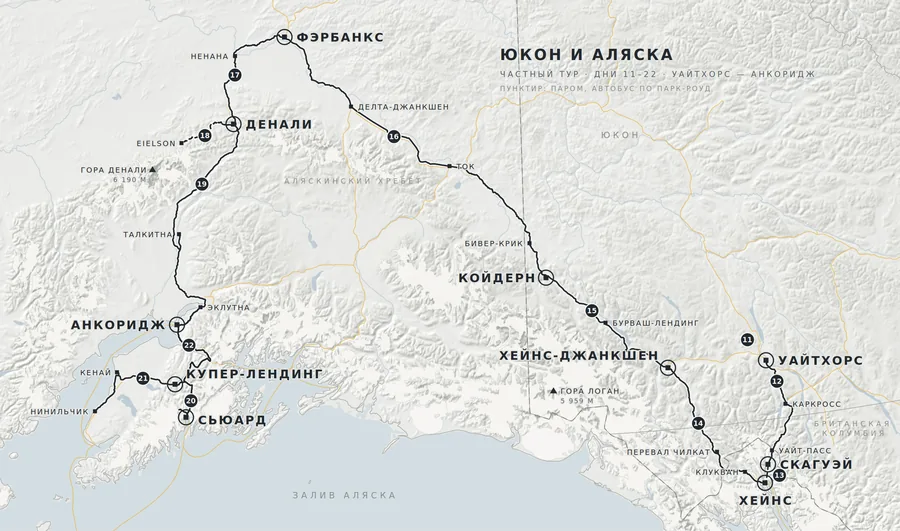
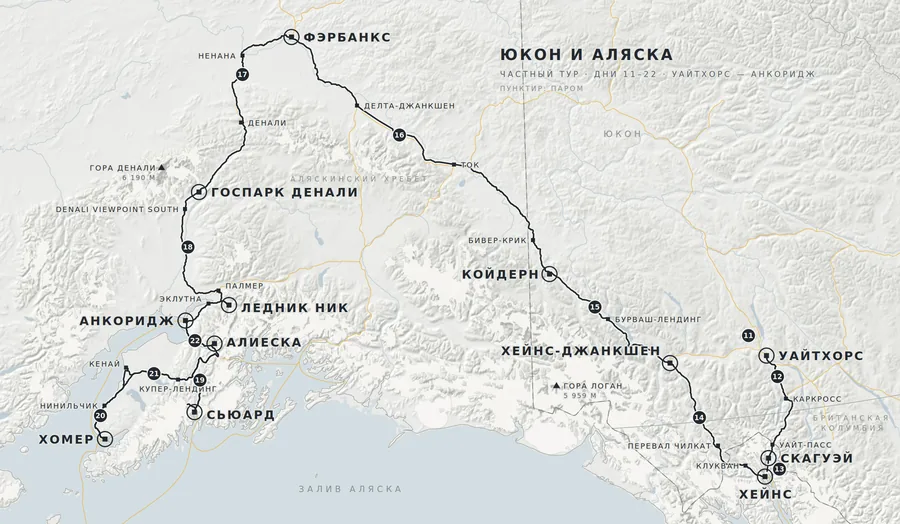
alberta-rockies-alaska-indigenous: новые дни 17–22 (госпарк Денали, Палмер, ледник Ник, Хомер, Алиеска), карта

diff --git a/expeditions/alberta-rockies-alaska-indigenous/index.html b/expeditions/alberta-rockies-alaska-indigenous/index.html
@@ -73,6 +73,10 @@ h2+.meta{margin:0 0 1.3rem}
   .trio picture{aspect-ratio:3/2}
 }
 
+/* варианты на выбор */
+.col ul.opts{margin:0 0 1rem;padding-left:1.1rem}
+.col ul.opts li{margin:.2rem 0}
+
 /* дата у номера дня */
 h2 .dt{font-family:var(--sans);font-size:.8125rem;letter-spacing:.04em;color:var(--dim);margin-left:.7rem;white-space:nowrap}
 
@@ -391,7 +395,7 @@ footer .meta{margin:0}
     <a href="/expeditions/alberta-rockies-alaska-indigenous/img/map-ak-full.jpg" target="_blank" rel="noopener">
       <picture>
         <source type="image/webp" srcset="/expeditions/alberta-rockies-alaska-indigenous/img/map-ak-800.webp 900w, /expeditions/alberta-rockies-alaska-indigenous/img/map-ak.webp 1600w" sizes="(min-width:1000px) 60rem, 100vw">
-        <img src="/expeditions/alberta-rockies-alaska-indigenous/img/map-ak.jpg" srcset="/expeditions/alberta-rockies-alaska-indigenous/img/map-ak-800.jpg 900w, /expeditions/alberta-rockies-alaska-indigenous/img/map-ak.jpg 1600w" sizes="(min-width:1000px) 60rem, 100vw" alt="Карта маршрута: Уайтхорс, Скагуэй, Хейнс, Клуэйн, Фэрбанкс, Денали, Анкоридж, Сьюард, полуостров Кенай" width="1600" height="943" loading="lazy" decoding="async">
+        <img src="/expeditions/alberta-rockies-alaska-indigenous/img/map-ak.jpg" srcset="/expeditions/alberta-rockies-alaska-indigenous/img/map-ak-800.jpg 900w, /expeditions/alberta-rockies-alaska-indigenous/img/map-ak.jpg 1600w" sizes="(min-width:1000px) 60rem, 100vw" alt="Карта маршрута: Уайтхорс, Скагуэй, Хейнс, Клуэйн, Фэрбанкс, Денали, Палмер, ледник Ник, Анкоридж, Сьюард, Хомер, Кенай, Алиеска" width="1600" height="931" loading="lazy" decoding="async">
       </picture>
     </a>
   </div></div>
@@ -525,105 +529,129 @@ footer .meta{margin:0}
   <p class="cap col"><span>Ненана. Церковь St. Mark’s.</span></p>
   <div class="col">
     <h2>День 17<span class="dt">7&nbsp;июня, пн</span></h2>
-    <p class="meta">Фэрбанкс, Ненана, Денали. 195&nbsp;км.</p>
-    <p><a href="https://www.uaf.edu/museum/" target="_blank" rel="noopener">Музей Севера</a> Университета Аляски: галерея искусства коренных народов, степной бизон Blue Babe, пролежавший в мерзлоте 36&nbsp;000&nbsp;лет. Ненана, атабаскская деревня на слиянии Танана и Ненаны: миссионерская церковь St. Mark’s (1905), знаменитая лотерея на вскрытие льда. <a href="https://www.nps.gov/dena/" target="_blank" rel="noopener">Национальный парк Денали</a>, визит&#8209;центр, единственный в системе национальных парков питомник ездовых собак. Вечером первые километры Парк&#8209;роуд до реки Сэвидж.</p>
-    <p class="stay"><b>Ночь.</b> Tonglen Lake Lodge, домики с видом на Аляскинский хребет.</p>
-  </div>
-</section>
-
-<!-- ДЕНЬ 18 -->
-<section class="block">
-  <div class="photo">
-    <picture>
-      <source type="image/webp" srcset="/expeditions/alberta-rockies-alaska-indigenous/img/d18-polychrome-800.webp 800w, /expeditions/alberta-rockies-alaska-indigenous/img/d18-polychrome.webp 1600w" sizes="100vw">
-      <img src="/expeditions/alberta-rockies-alaska-indigenous/img/d18-polychrome.jpg" srcset="/expeditions/alberta-rockies-alaska-indigenous/img/d18-polychrome-800.jpg 800w, /expeditions/alberta-rockies-alaska-indigenous/img/d18-polychrome.jpg 1600w" sizes="100vw" alt="Автобус на серпантине Парк-роуд у перевала Поликром" width="1600" height="1092" loading="lazy" decoding="async">
-    </picture>
-  </div>
-  <p class="cap col"><span>Поликром. Автобус на Парк&#8209;роуд.</span></p>
-  <div class="col">
-    <h2>День 18<span class="dt">8&nbsp;июня, вт</span></h2>
-    <p class="meta">Денали.</p>
-    <p>Целый день в глубине парка. Автобус по Парк&#8209;роуд через перевал Поликром до визит&#8209;центра Eielson, миля 66: сезон 2027 первый за шесть лет, когда дорога за оползнем Pretty Rocks снова открыта. Гризли, лоси, карибу, бараны Далла, волки; при ясной погоде гора Денали, 6&nbsp;190&nbsp;м, во всю ширину долины.</p>
-    <p class="stay"><b>Ночь.</b> Tonglen Lake Lodge.</p>
+    <p class="meta">Фэрбанкс, Ненана, Денали, госпарк Денали. Около 325&nbsp;км.</p>
+    <p>Утром <a href="https://www.uaf.edu/museum/" target="_blank" rel="noopener">Музей Севера</a> Университета Аляски: галерея искусства коренных народов, степной бизон Blue Babe, пролежавший в мерзлоте 36&nbsp;000&nbsp;лет. Ненана, атабаскская деревня на слиянии Танана и Ненаны: миссионерская церковь St. Mark’s (1905), знаменитая лотерея на вскрытие льда. К обеду <a href="https://www.nps.gov/dena/" target="_blank" rel="noopener">национальный парк Денали</a>: визит&#8209;центр и единственный в системе национальных парков питомник ездовых собак. Дальше на юг по трассе Паркс вдоль Аляскинского хребта в госпарк Денали.</p>
+    <p class="stay"><b>Ночь.</b> Historic Chulitna River Lodge, бревенчатые дома на озере Эрмин с видом на Денали.</p>
   </div>
   <div class="photo" style="margin-top:1.6rem">
     <picture>
-      <source type="image/webp" srcset="/expeditions/alberta-rockies-alaska-indigenous/img/d18-eielson-800.webp 800w, /expeditions/alberta-rockies-alaska-indigenous/img/d18-eielson.webp 1600w" sizes="100vw">
-      <img src="/expeditions/alberta-rockies-alaska-indigenous/img/d18-eielson.jpg" srcset="/expeditions/alberta-rockies-alaska-indigenous/img/d18-eielson-800.jpg 800w, /expeditions/alberta-rockies-alaska-indigenous/img/d18-eielson.jpg 1600w" sizes="100vw" alt="Гора Денали в облаках, вид от визит-центра Eielson" width="1600" height="1062" loading="lazy" decoding="async">
+      <source type="image/webp" srcset="/expeditions/alberta-rockies-alaska-indigenous/img/d17-ermine-lake-800.webp 800w, /expeditions/alberta-rockies-alaska-indigenous/img/d17-ermine-lake.webp 1600w" sizes="100vw">
+      <img src="/expeditions/alberta-rockies-alaska-indigenous/img/d17-ermine-lake.jpg" srcset="/expeditions/alberta-rockies-alaska-indigenous/img/d17-ermine-lake-800.jpg 800w, /expeditions/alberta-rockies-alaska-indigenous/img/d17-ermine-lake.jpg 1600w" sizes="100vw" alt="Озеро Эрмин с причалом и лодкой, лес и горы госпарка Денали" width="1600" height="1067" loading="lazy" decoding="async">
     </picture>
   </div>
-  <p class="cap col"><span>Денали с Eielson.</span></p>
+  <p class="cap col"><span>Озеро Эрмин.</span></p>
+</section>
+
+<!-- ДЕНЬ 18 -->
+<section class="block" style="padding-top:0">
+  <div class="photo">
+    <picture>
+      <source type="image/webp" srcset="/expeditions/alberta-rockies-alaska-indigenous/img/d18-denali-south-800.webp 800w, /expeditions/alberta-rockies-alaska-indigenous/img/d18-denali-south.webp 1600w" sizes="100vw">
+      <img src="/expeditions/alberta-rockies-alaska-indigenous/img/d18-denali-south.jpg" srcset="/expeditions/alberta-rockies-alaska-indigenous/img/d18-denali-south-800.jpg 800w, /expeditions/alberta-rockies-alaska-indigenous/img/d18-denali-south.jpg 1600w" sizes="100vw" alt="Аляскинский хребет и Денали с южной смотровой на трассе Паркс" width="1600" height="899" loading="lazy" decoding="async">
+    </picture>
+  </div>
+  <p class="cap col"><span>Денали с южной смотровой.</span></p>
+  <div class="col">
+    <h2>День 18<span class="dt">8&nbsp;июня, вт</span></h2>
+    <p class="meta">Хижина на Чулитне, Denali Viewpoint South, Палмер. Около 230&nbsp;км.</p>
+    <p>Утром <a href="https://dnr.alaska.gov/parks/aspunits/matsu/denaliviewso.htm" target="_blank" rel="noopener">Denali Viewpoint South</a> на 135&#8209;й миле трассы Паркс: один из лучших видов на Денали с дороги, таблички называют все вершины Аляскинского хребта. Долина Матануска, <a href="https://muskoxfarm.org/farmtours" target="_blank" rel="noopener">ферма овцебыков</a> в Палмере: стадо из семидесяти животных, переживших ледниковый период, и кивиут, их подшёрсток, из которого вяжут мастерицы северных деревень.</p>
+    <p class="x"><i>Опция:</i> облёт Денали с посадкой на ледник из Талкитны.</p>
+    <p class="stay"><b>Ночь.</b> Alaska Glacier Lodge в долине реки Ник.</p>
+  </div>
+  <div class="photo" style="margin-top:1.6rem">
+    <picture>
+      <source type="image/webp" srcset="/expeditions/alberta-rockies-alaska-indigenous/img/d18-musk-ox-800.webp 800w, /expeditions/alberta-rockies-alaska-indigenous/img/d18-musk-ox.webp 1600w" sizes="100vw">
+      <img src="/expeditions/alberta-rockies-alaska-indigenous/img/d18-musk-ox.jpg" srcset="/expeditions/alberta-rockies-alaska-indigenous/img/d18-musk-ox-800.jpg 800w, /expeditions/alberta-rockies-alaska-indigenous/img/d18-musk-ox.jpg 1600w" sizes="100vw" alt="Овцебык на ферме в Палмере" width="1600" height="1200" loading="lazy" decoding="async">
+    </picture>
+  </div>
+  <p class="cap col"><span>Палмер. Овцебыки.</span></p>
 </section>
 
 <!-- ДЕНЬ 19 -->
 <section class="block" style="padding-top:0">
   <div class="photo">
     <picture>
-      <source type="image/webp" srcset="/expeditions/alberta-rockies-alaska-indigenous/img/d19-ruth-800.webp 800w, /expeditions/alberta-rockies-alaska-indigenous/img/d19-ruth.webp 1600w" sizes="100vw">
-      <img src="/expeditions/alberta-rockies-alaska-indigenous/img/d19-ruth.jpg" srcset="/expeditions/alberta-rockies-alaska-indigenous/img/d19-ruth-800.jpg 800w, /expeditions/alberta-rockies-alaska-indigenous/img/d19-ruth.jpg 1600w" sizes="100vw" alt="Красный самолёт на снегу ледника Рут под скальной вершиной" width="1600" height="1064" loading="lazy" decoding="async" style="object-position:82% 85%">
+      <source type="image/webp" srcset="/expeditions/alberta-rockies-alaska-indigenous/img/d19-dog-sled-800.webp 800w, /expeditions/alberta-rockies-alaska-indigenous/img/d19-dog-sled.webp 1200w" sizes="100vw">
+      <img src="/expeditions/alberta-rockies-alaska-indigenous/img/d19-dog-sled.jpg" srcset="/expeditions/alberta-rockies-alaska-indigenous/img/d19-dog-sled-800.jpg 800w, /expeditions/alberta-rockies-alaska-indigenous/img/d19-dog-sled.jpg 1200w" sizes="100vw" alt="Собачья упряжка с пассажирами на снегу ледника среди гор" width="1200" height="800" loading="lazy" decoding="async">
     </picture>
   </div>
-  <p class="cap col"><span>Ледник Рут. Посадка.</span></p>
+  <p class="cap col"><span>Ледник Катаракт. Упряжка.</span></p>
   <div class="col">
     <h2>День 19<span class="dt">9&nbsp;июня, ср</span></h2>
-    <p class="meta">Денали, Талкитна, Анкоридж. Около 430&nbsp;км.</p>
-    <p>Смотровые на Денали с юга. Талкитна, база альпинистов: облёт горы на малом самолёте с посадкой на ледник Рут в амфитеатре Шелдона, гранитные стены в километр. Долина Матануска&#8209;Суситна, Анкоридж.</p>
-    <p class="stay"><b>Ночь.</b> Hotel Captain Cook.</p>
+    <p class="meta">Ледник Ник, Эклутна, Сьюард. Около 280&nbsp;км.</p>
+    <p>Утром вертолёт на ледник Катаракт, где летом живут каюры «Идитарода» со своей упряжкой. Знакомство с собаками и выезд на нартах по леднику. Эклутна, деревня денаина: бревенчатая церковь Св. Николая середины XIX века, одно из старейших зданий в округе, и кладбище с домиками духов, где сошлись атабаскская традиция и русское православие. Сьюард на берегу Воскресенской бухты, где Баранов в 1794 году спустил на воду «Феникс», первый корабль Русской Америки. Морской центр Alaska SeaLife Center: сивучи, тюлени, тупики. Вечером ледник Экзит.</p>
+    <p class="stay"><b>Ночь.</b> Harbor 360, номер с видом на гавань.</p>
   </div>
-</section>
-
-<!-- ДЕНЬ 20 -->
-<section class="block">
-  <div class="photo">
+  <div class="photo" style="margin-top:1.6rem">
     <picture>
       <source type="image/webp" srcset="/expeditions/alberta-rockies-alaska-indigenous/img/d20-eklutna-800.webp 800w, /expeditions/alberta-rockies-alaska-indigenous/img/d20-eklutna.webp 1600w" sizes="100vw">
       <img src="/expeditions/alberta-rockies-alaska-indigenous/img/d20-eklutna.jpg" srcset="/expeditions/alberta-rockies-alaska-indigenous/img/d20-eklutna-800.jpg 800w, /expeditions/alberta-rockies-alaska-indigenous/img/d20-eklutna.jpg 1600w" sizes="100vw" alt="Разноцветные домики духов на кладбище в Эклутне" width="1600" height="1193" loading="lazy" decoding="async">
     </picture>
   </div>
   <p class="cap col"><span>Эклутна. Домики духов.</span></p>
+</section>
+
+<!-- ДЕНЬ 20 -->
+<section class="block" style="padding-top:0">
+  <div class="photo">
+    <picture>
+      <source type="image/webp" srcset="/expeditions/alberta-rockies-alaska-indigenous/img/d20-otters-800.webp 800w, /expeditions/alberta-rockies-alaska-indigenous/img/d20-otters.webp 1600w" sizes="100vw">
+      <img src="/expeditions/alberta-rockies-alaska-indigenous/img/d20-otters.jpg" srcset="/expeditions/alberta-rockies-alaska-indigenous/img/d20-otters-800.jpg 800w, /expeditions/alberta-rockies-alaska-indigenous/img/d20-otters.jpg 1600w" sizes="100vw" alt="Калан плывёт на спине в Воскресенской бухте" width="1600" height="1062" loading="lazy" decoding="async">
+    </picture>
+  </div>
+  <p class="cap col"><span>Воскресенская бухта. Каланы.</span></p>
   <div class="col">
     <h2>День 20<span class="dt">10&nbsp;июня, чт</span></h2>
-    <p class="meta">Анкоридж, Эклутна, залив Тернагейн, Сьюард. Около 290&nbsp;км.</p>
-    <p>Эклутна, деревня денаина: православная церковь Св. Николая, старейшее здание в окрестностях Анчориджа, и кладбище с домиками духов, где сошлись атабаскская традиция и русское православие. Залив Тернагейн: белухи у Beluga Point, приливная волна. Центр охраны дикой природы Аляски: бизоны, овцебыки, медведи. Сьюард. Ледник Экзит, единственная доступная по дороге часть <a href="https://www.nps.gov/kefj/" target="_blank" rel="noopener">парка Кенай&#8209;Фьордс</a>; таблички с годами показывают, куда он отступил.</p>
-    <p class="stay"><b>Ночь.</b> Harbor 360, номер с видом на гавань.</p>
+    <p class="meta">Сьюард, Нинильчик, Хомер. Около 280&nbsp;км.</p>
+    <p>Утром трёхчасовой катер по Воскресенской бухте: каланы, сивучи на скалах, тупики, горные ледники над водой, при удаче киты. Дорога через полуостров Кенай. Нинильчик, деревня русских креолов 1847 года: Преображенская церковь на холме над заливом Кука, напротив вулканы Редаут и Илиамна. Хомер, «конец дороги» на заливе Качемак.</p>
+    <p class="x">Вечером на выбор:</p>
+    <ul class="opts"><li>катер к острову Гулл, птичий базар с тупиками и кайрами;</li><li>паром в посёлок художников Халибут&#8209;Коув и ужин в ресторане The Saltry.</li></ul>
+    
+    <p class="stay"><b>Ночь.</b> Хомер.</p>
   </div>
   <div class="photo" style="margin-top:1.6rem">
     <picture>
-      <source type="image/webp" srcset="/expeditions/alberta-rockies-alaska-indigenous/img/d20-exit-glacier-800.webp 800w, /expeditions/alberta-rockies-alaska-indigenous/img/d20-exit-glacier.webp 1600w" sizes="100vw">
-      <img src="/expeditions/alberta-rockies-alaska-indigenous/img/d20-exit-glacier.jpg" srcset="/expeditions/alberta-rockies-alaska-indigenous/img/d20-exit-glacier-800.jpg 800w, /expeditions/alberta-rockies-alaska-indigenous/img/d20-exit-glacier.jpg 1600w" sizes="100vw" alt="Ледник Экзит над руслом талой реки" width="1600" height="1068" loading="lazy" decoding="async">
+      <source type="image/webp" srcset="/expeditions/alberta-rockies-alaska-indigenous/img/d21-ninilchik-800.webp 800w, /expeditions/alberta-rockies-alaska-indigenous/img/d21-ninilchik.webp 1600w" sizes="100vw">
+      <img src="/expeditions/alberta-rockies-alaska-indigenous/img/d21-ninilchik.jpg" srcset="/expeditions/alberta-rockies-alaska-indigenous/img/d21-ninilchik-800.jpg 800w, /expeditions/alberta-rockies-alaska-indigenous/img/d21-ninilchik.jpg 1600w" sizes="100vw" alt="Преображенская церковь в Нинильчике, за заливом Кука вулкан" width="1600" height="1101" loading="lazy" decoding="async">
     </picture>
   </div>
-  <p class="cap col"><span>Ледник Экзит.</span></p>
+  <p class="cap col"><span>Нинильчик. Церковь над заливом Кука.</span></p>
 </section>
 
 <!-- ДЕНЬ 21 -->
 <section class="block" style="padding-top:0">
   <div class="duo">
     <picture>
-      <source type="image/webp" srcset="/expeditions/alberta-rockies-alaska-indigenous/img/d21-ninilchik-800.webp 800w, /expeditions/alberta-rockies-alaska-indigenous/img/d21-ninilchik.webp 1600w" sizes="(min-width:761px) 50vw, 100vw">
-      <img src="/expeditions/alberta-rockies-alaska-indigenous/img/d21-ninilchik.jpg" srcset="/expeditions/alberta-rockies-alaska-indigenous/img/d21-ninilchik-800.jpg 800w, /expeditions/alberta-rockies-alaska-indigenous/img/d21-ninilchik.jpg 1600w" sizes="(min-width:761px) 50vw, 100vw" alt="Преображенская церковь в Нинильчике, за заливом Кука вулкан" width="1600" height="1101" loading="lazy" decoding="async" style="object-position:40% 50%">
-    </picture>
-    <picture>
       <source type="image/webp" srcset="/expeditions/alberta-rockies-alaska-indigenous/img/d21-kenai-800.webp 800w, /expeditions/alberta-rockies-alaska-indigenous/img/d21-kenai.webp 1600w" sizes="(min-width:761px) 50vw, 100vw">
       <img src="/expeditions/alberta-rockies-alaska-indigenous/img/d21-kenai.jpg" srcset="/expeditions/alberta-rockies-alaska-indigenous/img/d21-kenai-800.jpg 800w, /expeditions/alberta-rockies-alaska-indigenous/img/d21-kenai.jpg 1600w" sizes="(min-width:761px) 50vw, 100vw" alt="Свято-Успенская церковь в Кенае за белой оградой" width="1600" height="1612" loading="lazy" decoding="async" style="object-position:50% 50%">
     </picture>
+    <picture>
+      <source type="image/webp" srcset="/expeditions/alberta-rockies-alaska-indigenous/img/d21-alyeska-800.webp 800w, /expeditions/alberta-rockies-alaska-indigenous/img/d21-alyeska.webp 1600w" sizes="(min-width:761px) 50vw, 100vw">
+      <img src="/expeditions/alberta-rockies-alaska-indigenous/img/d21-alyeska.jpg" srcset="/expeditions/alberta-rockies-alaska-indigenous/img/d21-alyeska-800.jpg 800w, /expeditions/alberta-rockies-alaska-indigenous/img/d21-alyeska.jpg 1600w" sizes="(min-width:761px) 50vw, 100vw" alt="Вид с горы Алиеска на залив Тернагейн и горы" width="1600" height="1068" loading="lazy" decoding="async" style="object-position:50% 50%">
+    </picture>
   </div>
-  <p class="cap col"><span>Нинильчик. Церковь над заливом Кука.</span><span>Кенай. Свято&#8209;Успенская церковь.</span></p>
+  <p class="cap col"><span>Кенай. Свято&#8209;Успенская церковь.</span><span>Алиеска. Вид с горы.</span></p>
   <div class="col">
     <h2>День 21<span class="dt">11&nbsp;июня, пт</span></h2>
-    <p class="meta">Сьюард, Купер&#8209;Лендинг, Кенай, Нинильчик, Купер&#8209;Лендинг. Около 370&nbsp;км.</p>
-    <p>K’beq’, стоянка кенайских денаина на реке Кенай: землянки, рыбные ямы, экскурсия ведётся представителями племени Kenaitze. Город Кенай: Свято&#8209;Успенская церковь (1895), старейшая действующая православная церковь Аляски, на месте русского форта 1791 года. Нинильчик, деревня русских креолов 1847 года: Преображенская церковь на холме над заливом Кука, напротив вулканы Редаут и Илиамна. Возвращение вверх по реке Кенай.</p>
-    <p class="stay"><b>Ночь.</b> Kenai Princess Wilderness Lodge над рекой.</p>
+    <p class="meta">Хомер, Кенай, Купер&#8209;Лендинг, Алиеска. Около 350&nbsp;км.</p>
+    <p>Город Кенай: Свято&#8209;Успенская церковь (1895), старейшая действующая православная церковь Аляски, на месте русского форта 1791 года. <a href="https://www.kenaitze.org/kbeq-cultural-site/" target="_blank" rel="noopener">K’beq’</a>, стоянка кенайских денаина на реке Кенай: древняя землянка, рыбные ямы, бревенчатый дом начала XX века. Гирдвуд. Вечером подъём по канатной дороге на гору Алиеска и ужин в ресторане Seven Glaciers с видом на залив Тернагейн и висячие ледники.</p>
+    <p class="stay"><b>Ночь.</b> Alyeska Resort.</p>
   </div>
 </section>
 
 <!-- ДЕНЬ 22 -->
 <section class="block">
+  <div class="photo">
+    <picture>
+      <source type="image/webp" srcset="/expeditions/alberta-rockies-alaska-indigenous/img/d22-anhc-800.webp 800w, /expeditions/alberta-rockies-alaska-indigenous/img/d22-anhc.webp 1600w" sizes="100vw">
+      <img src="/expeditions/alberta-rockies-alaska-indigenous/img/d22-anhc.jpg" srcset="/expeditions/alberta-rockies-alaska-indigenous/img/d22-anhc-800.jpg 800w, /expeditions/alberta-rockies-alaska-indigenous/img/d22-anhc.jpg 1600w" sizes="100vw" alt="Резной клановый дом в деревне Alaska Native Heritage Center" width="1600" height="1071" loading="lazy" decoding="async">
+    </picture>
+  </div>
+  <p class="cap col"><span>Alaska Native Heritage Center.</span></p>
   <div class="col">
     <h2>День 22<span class="dt">12&nbsp;июня, сб</span></h2>
-    <p class="meta">Купер&#8209;Лендинг, Анкоридж. 160&nbsp;км.</p>
-    <p><a href="https://www.alaskanative.net/" target="_blank" rel="noopener">Alaska Native Heritage Center</a>: одиннадцать культур Аляски, деревенские усадьбы вокруг озера, танцы и игры. <a href="https://www.anchoragemuseum.org/" target="_blank" rel="noopener">Музей Анкориджа</a> с залом Смитсоновского центра арктических исследований: 600 предметов из национальных коллекций.</p>
-    <p class="stay"><b>Вылет</b> из Анкориджа.</p>
+    <p class="meta">Алиеска, Анкоридж. 60&nbsp;км.</p>
+    <p><a href="https://www.alaskanative.net/" target="_blank" rel="noopener">Alaska Native Heritage Center</a>: одиннадцать культур Аляски, деревенские усадьбы вокруг озера, танцы и игры. <a href="https://www.anchoragemuseum.org/" target="_blank" rel="noopener">Музей Анкориджа</a> с залом Смитсоновского центра арктических исследований. Вылет.</p>
   </div>
 </section>
 
